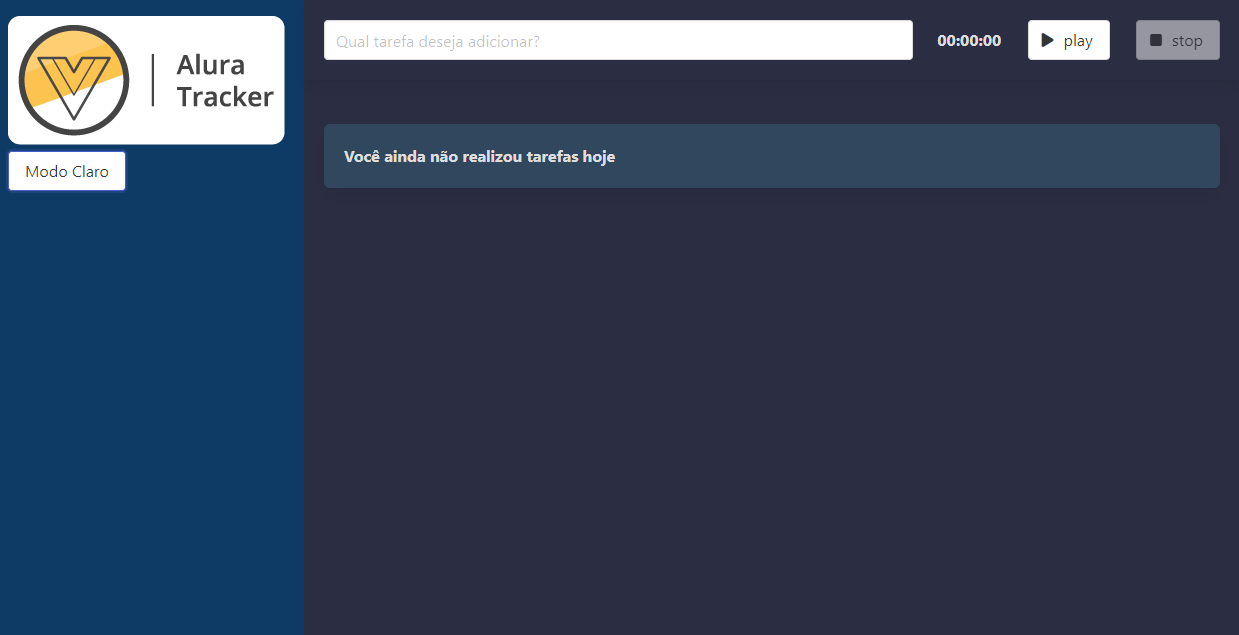
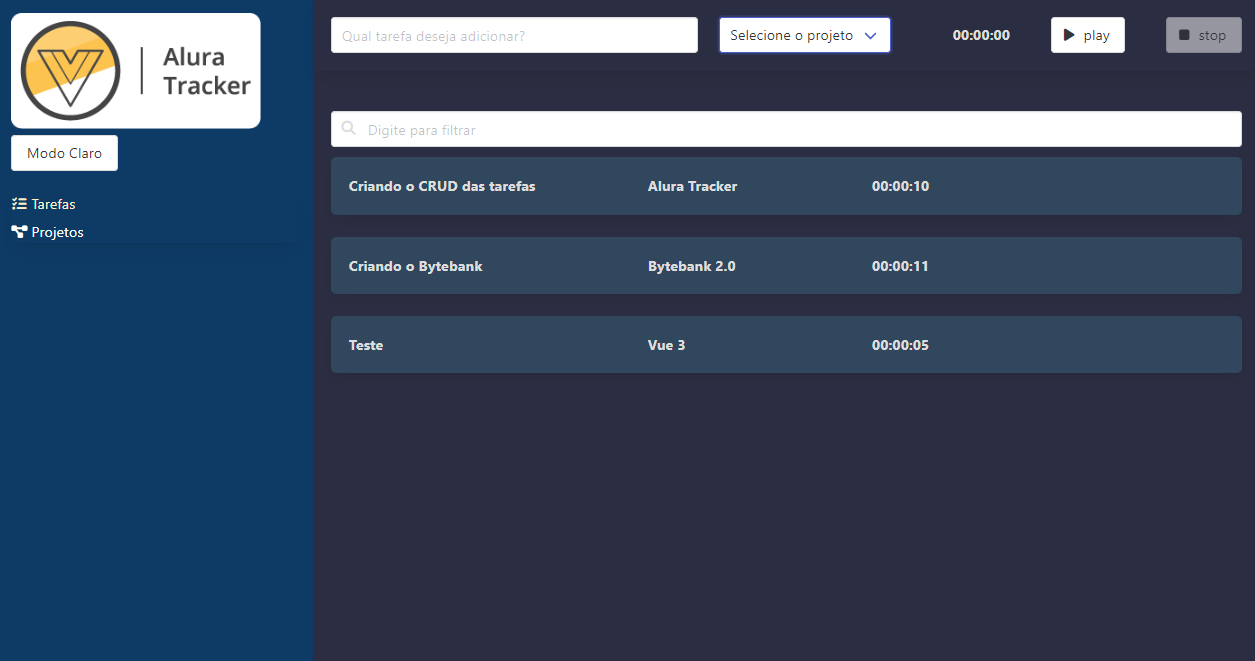
Finalizado

Changed region(s): [[0.0, 0.0, 1.0, 1.0]]

diff --git a/src/views/Tarefas.vue b/src/views/Tarefas.vue
@@ -1,36 +1,42 @@
 <template>
 	<FormularioTask @aoSalvarTarefa="salvarTarefa" />
 	<div class="lista">
+		<div class="field">
+			<p class="control has-icons-left has-icons-right">
+				<input type="email" class="input" placeholder="Digite para filtrar" v-model="filtro" />
+				<span class="icon is-small is-left">
+					<i class="fas fa-search"></i>
+				</span>
+			</p>
+		</div>
 		<Tarefa v-for="(tarefa, index) in Tarefas" :key="index" :tarefa="tarefa" @aoTarefaClicada="selecionarTarefa" />
 		<Box v-if="listaEstaVazia">
 			<p class="list-placeholder">Você ainda não realizou tarefas hoje</p>
 		</Box>
-		<div class="modal" :class="{'is-active': tarefaSelecionada}" v-if="tarefaSelecionada">
-			<div class="modal-background"></div>
-			<div class="modal-card">
-				<header class="modal-card-head">
-					<p class="modal-card-title">Editando a tarefa</p>
-					<button class="delete" aria-label="close"></button>
-				</header>
-				<section class="modal-card-body">
-					<input class="input" v-model="tarefaSelecionada.descricao" type="text" />
-				</section>
-				<footer class="modal-card-foot">
-					<button @click="alterarTarefa" class="button is-success">Salvar Alterações</button>
-					<button @click="fecharModal" class="button">Cancelar</button>
-					<button @click="deletarTarefa" class="button is-danger">Excluir</button>
-				</footer>
-			</div>
-		</div>
+		<Modal :mostrar="tarefaSelecionada != null">
+			<template v-slot:cabecalho>
+				<p class="modal-card-title">Editando a tarefa</p>
+				<button class="delete" aria-label="close"></button>
+			</template>
+			<template v-slot:corpo>
+				<input class="input" v-model="tarefaSelecionada.descricao" type="text" />
+			</template>
+			<template v-slot:rodape>
+				<button @click="alterarTarefa" class="button is-success">Salvar Alterações</button>
+				<button @click="fecharModal" class="button">Cancelar</button>
+				<button @click="deletarTarefa" class="button is-danger">Excluir</button>
+			</template>
+		</Modal>
 	</div>
 </template>
 
 <script lang="ts">
-import { computed, defineComponent } from "vue";
+import { computed, defineComponent, ref, watchEffect } from "vue";
 import ITarefa from "../interfaces/ITarefa";
 import FormularioTask from "../components/Formulario.vue";
 import Tarefa from "../components/Tarefa.vue";
 import Box from "../components/Box.vue";
+import Modal from '@/components/Modal.vue'
 import { useStore } from "@/store";
 import {
 	ALTERAR_TAREFA,
@@ -46,6 +52,7 @@ export default defineComponent({
 		FormularioTask,
 		Tarefa,
 		Box,
+		Modal
 	},
 	data() {
 		return {
@@ -54,11 +61,21 @@ export default defineComponent({
 	},
 	setup() {
 		const store = useStore();
+		const filtro = ref("");
+		//const Tarefas = computed(() =>
+		//	store.state.tarefas.filter(
+		//		(t) => !filtro.value || t.descricao.includes(filtro.value)
+		//	)
+		//);
+		watchEffect(()=>{
+			store.dispatch(OBTER_TAREFAS, filtro.value)
+		})
 		store.dispatch(OBTER_PROJETOS);
 		store.dispatch(OBTER_TAREFAS);
 		return {
 			store,
-			Tarefas: computed(() => store.state.tarefas),
+			filtro,
+			Tarefas: computed(()=> store.state.tarefa.tarefas),
 		};
 	},
 	computed: {
@@ -69,7 +86,6 @@ export default defineComponent({
 	methods: {
 		salvarTarefa(tarefa: ITarefa) {
 			this.store.dispatch(CADASTRAR_TAREFA, tarefa);
-			console.log(tarefa)
 		},
 		selecionarTarefa(tarefa: ITarefa): void {
 			this.tarefaSelecionada = tarefa;
@@ -92,4 +108,20 @@ export default defineComponent({
 </script>
 
 <style scoped>
+.lista{
+	height: 85vh;
+	overflow-y: auto;
+}
+::-webkit-scrollbar{
+	width: 15px;
+}
+::-webkit-scrollbar-track {
+  background: var(--bg-scrollbar);
+}
+::-webkit-scrollbar-thumb {
+  background: var(--thumb-scrollbar);
+}
+::-webkit-scrollbar-thumb:hover {
+  background: #555;
+}
 </style>

diff --git a/src/store/index.ts b/src/store/index.ts
@@ -1,15 +1,13 @@
 import INotificacao from "@/interfaces/INotificacao";
 import { createStore, Store, useStore as vuexUseStore } from "vuex";
 import { InjectionKey } from "vue";
-import { ADICIONA_TAREFA, DEFINIR_TAREFAS, DELETA_TAREFA, EDITA_TAREFA, NOTIFICAR } from "./tipo-mutacoes";
-import { OBTER_TAREFAS, CADASTRAR_TAREFA, ALTERAR_TAREFA, DELETAR_TAREFA } from "./tipo-acoes";
-import http from '@/http'
-import ITarefa from "@/interfaces/ITarefa";
+import { NOTIFICAR } from "./tipo-mutacoes";
 import { EstadoProjeto, projeto } from "./modulos/projeto";
+import { EstadoTarefa, tarefa } from "./modulos/tarefa";
 
 export interface Estado {
     notificacoes: INotificacao[],
-    tarefas: ITarefa[],
+    tarefa: EstadoTarefa,
     projeto: EstadoProjeto
 }
 export const key: InjectionKey<Store<Estado>> = Symbol()
@@ -18,55 +16,25 @@ export const store = createStore<Estado>({
         notificacoes: [
 
         ],
-        tarefas: [
-
-        ],
+        tarefa: {
+            tarefas: []
+        },
         projeto: {
             projetos: []
         }
     },
     mutations: {
-        [DEFINIR_TAREFAS](state, tarefas: ITarefa[]) {
-            state.tarefas = tarefas
-        },
         [NOTIFICAR](state, Notificacao: INotificacao) {
             Notificacao.id = new Date().getTime()
             state.notificacoes.push(Notificacao)
             setTimeout(() => {
                 state.notificacoes = state.notificacoes.filter(notificacao => notificacao.id != Notificacao.id)
             }, 2500)
-        },
-        [ADICIONA_TAREFA](state, tarefa: ITarefa) {
-            state.tarefas.push(tarefa)
-        },
-        [EDITA_TAREFA](state, tarefa: ITarefa) {
-            const index = state.tarefas.findIndex(task => task.id == tarefa.id)
-            state.tarefas[index] = tarefa
-        },
-        [DELETA_TAREFA](state, tarefa: ITarefa) {
-            state.tarefas = state.tarefas.filter(task => task.id != tarefa.id)
-        }
-    },
-    actions: {
-        [OBTER_TAREFAS]({ commit }) {
-            http.get('tarefas')
-                .then(resposta => commit(DEFINIR_TAREFAS, resposta.data))
-        },
-        [CADASTRAR_TAREFA]({ commit }, tarefa: ITarefa) {
-            return http.post('/tarefas', tarefa)
-                .then(resposta => commit(ADICIONA_TAREFA, resposta.data))
-        },
-        [ALTERAR_TAREFA]({ commit }, tarefa: ITarefa) {
-            return http.put(`/tarefas/${tarefa.id}`, tarefa)
-                .then(resposta => commit(EDITA_TAREFA, resposta.data))
-        },
-        [DELETAR_TAREFA]({ commit }, tarefa: ITarefa) {
-            return http.delete(`/tarefas/${tarefa.id}`)
-                .then(() => commit(DELETA_TAREFA, tarefa))
         }
     },
     modules: {
-        projeto
+        projeto,
+        tarefa
     }
 })
 

diff --git a/src/store/modulos/tarefa/index.ts b/src/store/modulos/tarefa/index.ts
@@ -1,0 +1,49 @@
+import ITarefa from "@/interfaces/ITarefa";
+import { Estado } from "@/store";
+import { Module } from "vuex";
+import { ADICIONA_TAREFA, DELETA_TAREFA, DEFINIR_TAREFAS, EDITA_TAREFA } from "@/store/tipo-mutacoes";
+import { ALTERAR_TAREFA, CADASTRAR_TAREFA, DELETAR_TAREFA, OBTER_TAREFAS } from "@/store/tipo-acoes";
+import http from "@/http";
+
+export interface EstadoTarefa {
+    tarefas: ITarefa[]
+}
+export const tarefa: Module<EstadoTarefa, Estado> = {
+    mutations: {
+        [DEFINIR_TAREFAS](state, tarefas: ITarefa[]) {
+            state.tarefas = tarefas
+        },
+        [ADICIONA_TAREFA](state, tarefa: ITarefa) {
+            state.tarefas.push(tarefa)
+        },
+        [EDITA_TAREFA](state, tarefa: ITarefa) {
+            const index = state.tarefas.findIndex(task => task.id == tarefa.id)
+            state.tarefas[index] = tarefa
+        },
+        [DELETA_TAREFA](state, tarefa: ITarefa) {
+            state.tarefas = state.tarefas.filter(task => task.id != tarefa.id)
+        }
+    },
+    actions: {
+        [OBTER_TAREFAS]({ commit }, filtro: string) {
+            let url = 'tarefas'
+            if(filtro){
+                url+= '?descricao='+filtro
+            }
+            http.get(url)
+                .then(resposta => commit(DEFINIR_TAREFAS, resposta.data))
+        },
+        [CADASTRAR_TAREFA]({ commit }, tarefa: ITarefa) {
+            return http.post('/tarefas', tarefa)
+                .then(resposta => commit(ADICIONA_TAREFA, resposta.data))
+        },
+        [ALTERAR_TAREFA]({ commit }, tarefa: ITarefa) {
+            return http.put(`/tarefas/${tarefa.id}`, tarefa)
+                .then(resposta => commit(EDITA_TAREFA, resposta.data))
+        },
+        [DELETAR_TAREFA]({ commit }, tarefa: ITarefa) {
+            return http.delete(`/tarefas/${tarefa.id}`)
+                .then(() => commit(DELETA_TAREFA, tarefa))
+        }
+    }
+}

diff --git a/src/components/Formulario.vue b/src/components/Formulario.vue
@@ -26,20 +26,18 @@ import { computed, defineComponent, ref } from "vue";
 import Temporizador from "./Temporizador.vue";
 import { useStore } from "vuex";
 import { key } from "@/store/index";
-import { CADASTRAR_TAREFA, OBTER_TAREFAS } from "@/store/tipo-acoes";
 
 export default defineComponent({
 	name: "FormularioTask",
 	setup(props, { emit }) {
 		const store = useStore(key);
 		const nomeTarefa = ref("");
-        
 		const idProjeto = ref("");
 		const projetos = computed(() => store.state.projeto.projetos);
 
 		const finalizarTarefa = (tempoDecorrido: number): void => {
 			emit("aoSalvarTarefa", {duracaoEmSegundos: tempoDecorrido,
-					descricao: nomeTarefa,
+					descricao: nomeTarefa.value,
 					projeto: projetos.value.find(
 						proj => proj.id == idProjeto.value)
             })

diff --git a/src/components/Modal.vue b/src/components/Modal.vue
@@ -1,0 +1,29 @@
+<template>
+	<div class="modal" :class="{'is-active': mostrar}" v-if="mostrar">
+		<div class="modal-background"></div>
+		<div class="modal-card">
+			<header class="modal-card-head">
+                <slot name="cabecalho"/>
+			</header>
+			<section class="modal-card-body">
+                <slot name="corpo"/>
+			</section>
+			<footer class="modal-card-foot">
+                <slot name="rodape"/>
+			</footer>
+		</div>
+	</div>
+</template>
+
+<script lang='ts'>
+import { defineComponent } from "vue";
+export default defineComponent({
+	name: "ModalComponent",
+	props: {
+		mostrar: {
+			type: Boolean,
+			required: true,
+		},
+	},
+});
+</script>

diff --git a/src/App.vue b/src/App.vue
@@ -41,17 +41,24 @@ export default defineComponent({
   .lista{
     padding:1.25rem;
   }
+  html{
+    overflow-y: hidden;
+  }
   main {
     --bg-primario: #FFF;
     --texto-primario: #000;
     --bg-tarefa: #fff9dc;
     --botoes: rgb(123, 163, 231);
+    --bg-scrollbar: rgba(204, 171, 106, 0.607);
+    --thumb-scrollbar: rgba(235, 183, 100, 0.896);
   }
   main.modoEscuro{
     --bg-primario: #2b2d42;
     --texto-primario:#ddd;
     --bg-tarefa: #30475e;
     --botoes: rgb(78, 96, 147);
+    --bg-scrollbar: rgba(27, 41, 103, 0.889);
+    --thumb-scrollbar: rgba(29, 159, 234, 0.94);
   }
   .conteudo{
     background-color: var(--bg-primario);

diff --git a/src/views/Projetos.vue b/src/views/Projetos.vue
@@ -8,7 +8,7 @@
 import { defineComponent } from 'vue'
 
 export default defineComponent({
-    name:'ProjetosVue'
+    name:'ProjetosView'
 })
 </script>
 

diff --git a/README.md b/README.md
@@ -1,5 +1,4 @@
-# alura-tracker
-https://vercel.com/farrush/alura-tracker
+Isto é um projeto gerenciador de tarefas feito em vueJs durante os cursos de Vue3 da Alura, possui um CRUD de projetos e tarefas que ficam armazenados no arquivo db.json (utilizando o json-server).
 
 ## Requisitos globais
 ```
@@ -9,9 +8,13 @@ npm i -g json-server
 ## Como abrir e rodar o projeto:
 ```
 npm install
+```
+### Em Consoles separados
 
+```
 json-server --watch db.json
-
+```
+```
 npm run serve
 ```
 
